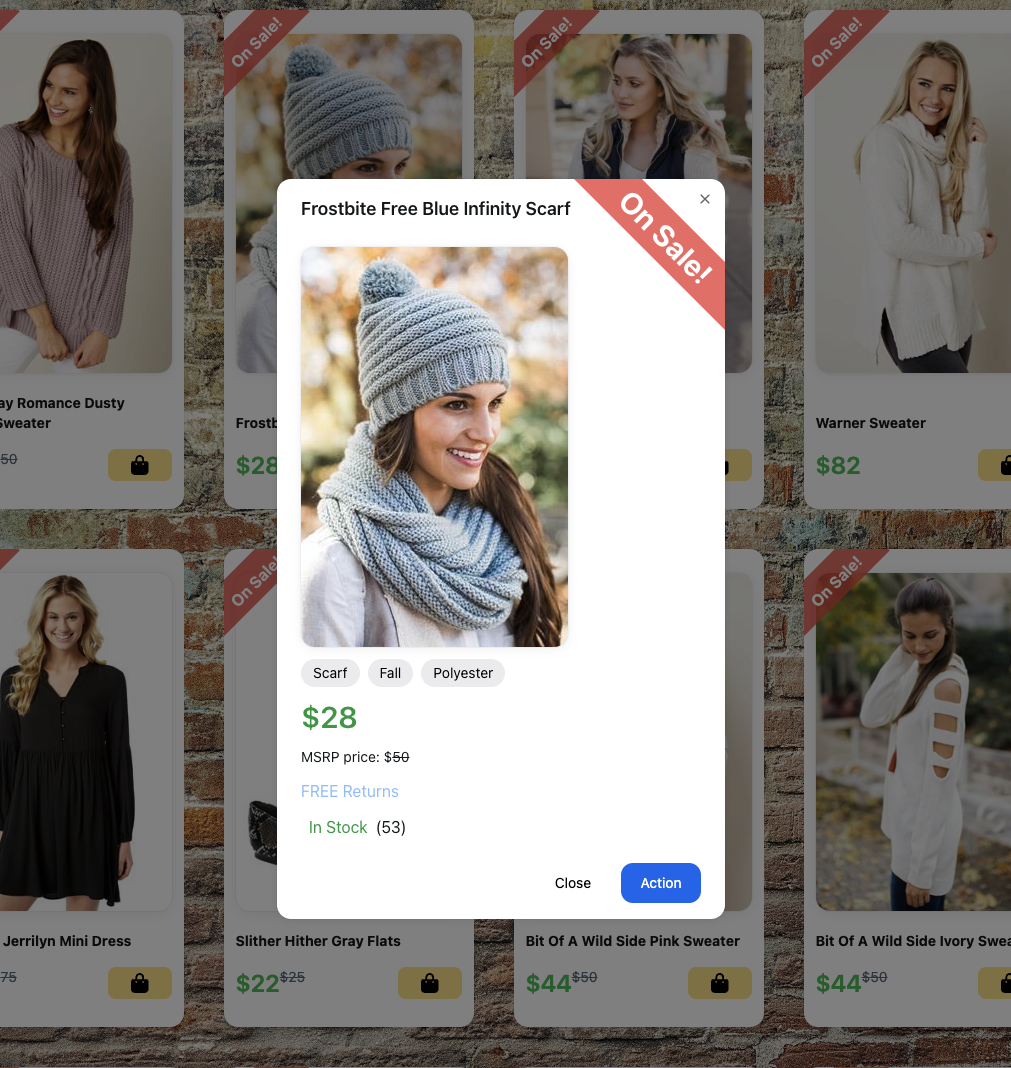
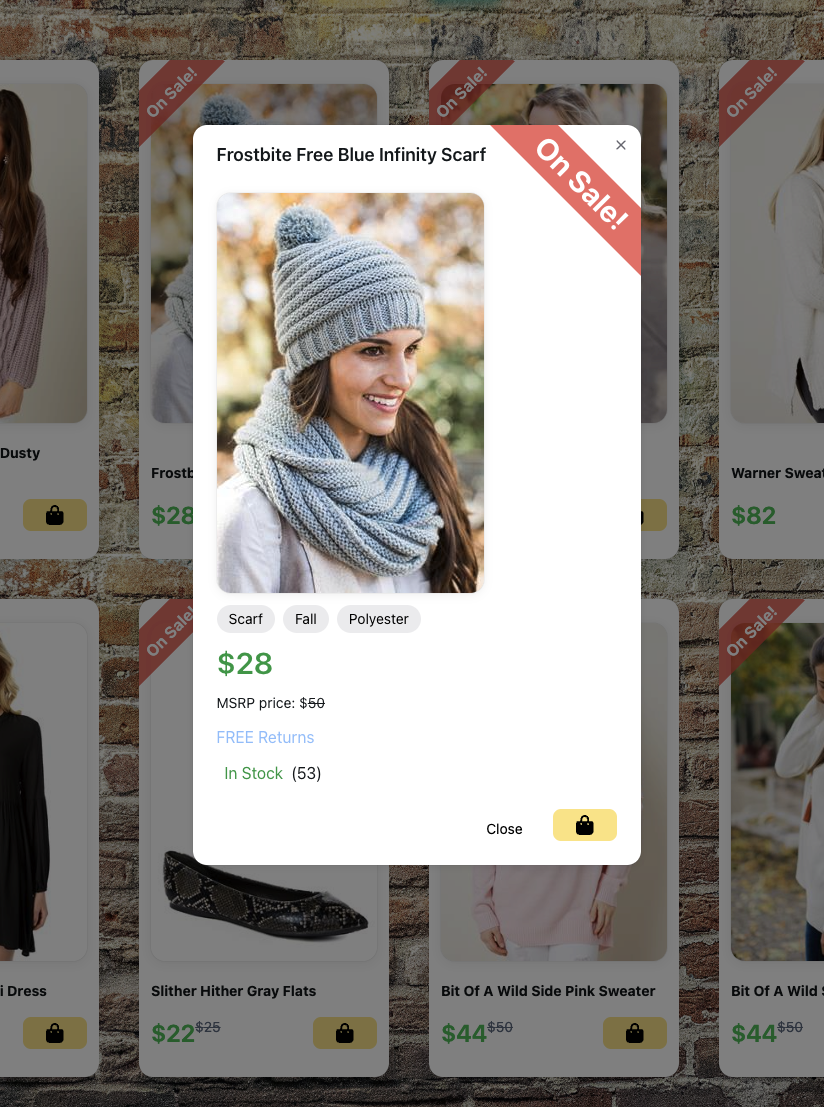
AddToCartBtn component created

diff --git a/src/components/ui/ProductCard.js b/src/components/ui/ProductCard.js
@@ -12,14 +12,11 @@ import {
 import React from "react";
 import { useUserContext } from "../../services/context/UserContext";
 import ProductDetails from "./ProductDetails";
+import AddToCartBtn from "../common/AddToCartBtn";
 
 const ProductCard = ({ product }) => {
-  const { setCart } = useUserContext();
   const { isOpen, onOpen, onOpenChange } = useDisclosure();
 
-  const handleAddToCart = () => {
-    setCart((prev) => prev + 1);
-  };
   return (
     <Card className="py-4 w-[290]">
       <CardBody className="overflow-visible py-2">
@@ -55,15 +52,7 @@ const ProductCard = ({ product }) => {
               <p className="text-slate-500 line-through">${product.msrp}</p>
             )}
           </div>
-          <Button
-            className="bg-amber-200"
-            size="sm"
-            onClick={handleAddToCart}
-            type="button"
-            aria-label="Add to Cart"
-          >
-            <FontAwesomeIcon icon={faBagShopping} className="text-xl" />
-          </Button>
+          <AddToCartBtn />
         </div>
       </CardFooter>
       <Modal isOpen={isOpen} onOpenChange={onOpenChange}>

diff --git a/src/components/common/AddToCartBtn.js b/src/components/common/AddToCartBtn.js
@@ -1,0 +1,26 @@
+import { faBagShopping } from "@fortawesome/free-solid-svg-icons";
+import { FontAwesomeIcon } from "@fortawesome/react-fontawesome";
+import { Button } from "@nextui-org/react";
+import React from "react";
+import { useUserContext } from "../../services/context/UserContext";
+
+const AddToCartBtn = () => {
+  const { setCart } = useUserContext();
+
+  const handleAddToCart = () => {
+    setCart((prev) => prev + 1);
+  };
+  return (
+    <Button
+      className="bg-amber-200"
+      size="sm"
+      onClick={handleAddToCart}
+      type="button"
+      aria-label="Add to Cart"
+    >
+      <FontAwesomeIcon icon={faBagShopping} className="text-xl" />
+    </Button>
+  );
+};
+
+export default AddToCartBtn;

diff --git a/src/components/ui/ProductDetails.js b/src/components/ui/ProductDetails.js
@@ -8,6 +8,7 @@ import {
   ModalHeader,
 } from "@nextui-org/react";
 import React from "react";
+import AddToCartBtn from "../common/AddToCartBtn";
 
 const ProductDetails = ({ product }) => {
   return (
@@ -64,9 +65,7 @@ const ProductDetails = ({ product }) => {
             <Button color="default" variant="light" onPress={onClose}>
               Close
             </Button>
-            <Button color="primary" onPress={onClose}>
-              Action
-            </Button>
+            <AddToCartBtn />
           </ModalFooter>
         </>
       )}
